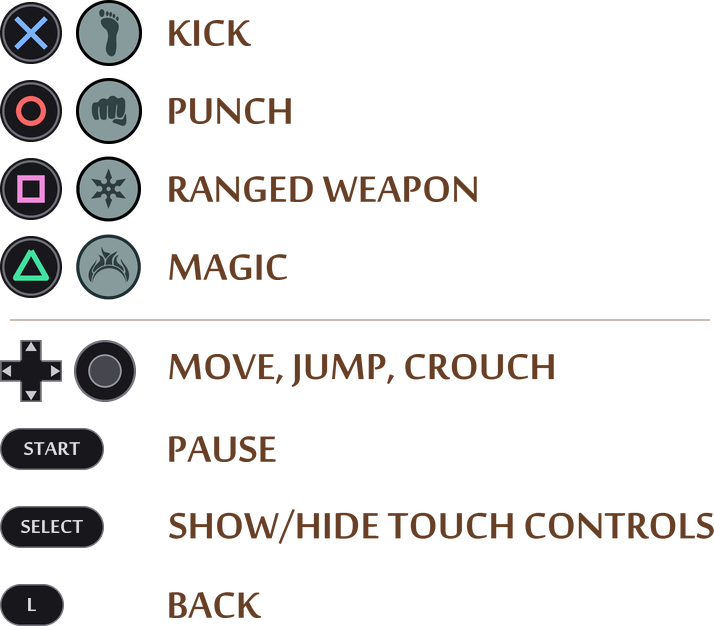
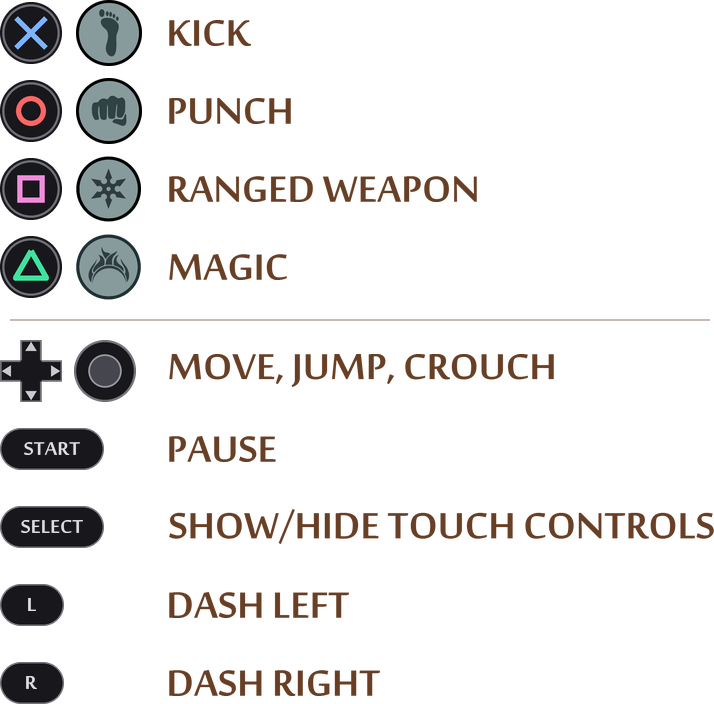
Dash with L and R; show the controls inside the pause dialog
L and R dash left and right: for four 70 ms phases the joystick is
taken over (let go, tap, let go, tap), the game's double tap, then
handed back, so a stick held that way keeps moving. L is no longer
Back. The controls picture and its art list them.

A second dialog over the pause dialog resumed the fight when it closed.
The pause dialog's CONTROLS icon now swaps its buttons for the picture
in place, and back, so only play resumes.

diff --git a/src/s3e/input.c b/src/s3e/input.c
@@ -10,7 +10,7 @@
  * The game's fight controls are on-screen only, so physical controls are
  * turned into virtual touches (ids from VPAD_ID) on those controls: the
  * left stick / d-pad drags the joystick, face buttons hold the attack
- * buttons. Positions are read from <data>/controls.txt, which is written
+ * buttons, L and R dash. Positions are read from <data>/controls.txt, which is written
  * with the defaults on first run so they can be tuned without a rebuild.
  */
 #include "s3e/s3e_internal.h"
@@ -27,7 +27,7 @@ typedef struct { int32_t key, pressed; } s3eKeyboardEvent;
 
 static struct { s3eCallback fn; void *ud; } s_ptr_cb[4], s_key_cb[2];
 static sf_input s_prev;
-static uint8_t s_keys[256];
+static uint8_t s_keys[256];   /* no Vita button is a key any more: all zero */
 
 static void fire(s3eCallback fn, void *ud, void *ev)
 {
@@ -43,12 +43,6 @@ static int find_touch(const sf_input *in, int id)
             return i;
     return -1;
 }
-
-/* Vita buttons -> s3eKey codes (s3eKeyboard.h): L is Back 210 (Android
- * back, closes dialogs). The others drive virtual touches instead. */
-static const struct { uint32_t btn; int key; } s_keymap[] = {
-    { SF_BTN_L, 210 },
-};
 
 /* --- virtual touches ------------------------------------------------------ */
 
@@ -70,6 +64,14 @@ static struct { const char *name; uint32_t btn; int x, y; } s_vbtn[V_NBUTTONS] =
     { "pause",  SF_BTN_START,    480,  40 },
 };
 static int s_joy_x = 137, s_joy_y = 405, s_joy_r = 65, s_deadzone = 40;
+
+/* L and R dash left and right. The game dashes on a double tap of the
+ * joystick, so for four phases the stick is taken over: let go, tap, let
+ * go, tap. Afterwards the stick is the player's again, so a stick still
+ * held that way keeps moving. */
+#define DASH_PHASE_US 70000
+static int s_dash_dir;          /* -1 left, 1 right, 0 none */
+static uint64_t s_dash_start;
 static int s_touch_controls;   /* draw the on-screen fight controls */
 static int s_cheats = 1;       /* cheats panel and unlimited energy (patches.c) */
 
@@ -205,6 +207,7 @@ static void add_virtual_touches(sf_input *in)
     /* Only in a fight: elsewhere the same screen points are menu buttons. */
     if (!sf_hud_in_fight()) {
         joy_down = 0;
+        s_dash_dir = 0;
         return;
     }
     if (dx * dx + dy * dy < s_deadzone * s_deadzone)
@@ -213,6 +216,19 @@ static void add_virtual_touches(sf_input *in)
     if (in->buttons & SF_BTN_RIGHT) dx = 127;
     if (in->buttons & SF_BTN_UP)    dy = -127;
     if (in->buttons & SF_BTN_DOWN)  dy = 127;
+    if (!s_dash_dir && (in->buttons & ~s_prev.buttons & (SF_BTN_L | SF_BTN_R))) {
+        s_dash_dir = (in->buttons & ~s_prev.buttons & SF_BTN_L) ? -1 : 1;
+        s_dash_start = sf_plat_time_us();
+    }
+    if (s_dash_dir) {
+        uint64_t phase = (sf_plat_time_us() - s_dash_start) / DASH_PHASE_US;
+        if (phase < 4) {
+            dx = (phase & 1) ? s_dash_dir * 127 : 0;
+            dy = 0;
+        } else {
+            s_dash_dir = 0;
+        }
+    }
     if (dx || dy) {
         if (joy_down)
             add_touch(in, VPAD_ID, s_joy_x + dx * s_joy_r / 127, s_joy_y + dy * s_joy_r / 127);
@@ -271,18 +287,6 @@ void sf_input_poll(void)
         }
     }
 
-    for (i = 0; i < (int)(sizeof(s_keymap) / sizeof(s_keymap[0])); i++) {
-        int now = (in.buttons & s_keymap[i].btn) != 0;
-        int was = (s_prev.buttons & s_keymap[i].btn) != 0;
-        int key = s_keymap[i].key;
-        if (now != was) {
-            s3eKeyboardEvent ev = { key, now };
-            s_keys[key] = now ? 3 : 4;   /* S3E_KEY_STATE_PRESSED|DOWN / RELEASED */
-            fire(s_key_cb[0].fn, s_key_cb[0].ud, &ev);
-        } else {
-            s_keys[key] = now ? 1 : 0;   /* S3E_KEY_STATE_DOWN / UP */
-        }
-    }
     s_prev = in;
 }
 

diff --git a/src/s3e/ui.c b/src/s3e/ui.c
@@ -61,7 +61,7 @@ const uint8_t *sf_ui_asset(const char *path, uint32_t *size)
 
 /* --- the help dialog --------------------------------------------------------- */
 
-#define HELP_LINES  8        /* blank message lines: the dialog's height */
+#define HELP_LINES  9        /* blank message lines: the dialog's height */
 #define HELP_SCALE  0.6f     /* controls_help.png in the dialog */
 
 void sf_ui_show_controls(void)
@@ -121,10 +121,38 @@ typedef void (*set_press_scale_fn)(void *btn, uint32_t scale);                  
 
 #define PAUSE_X   0.0f
 #define PAUSE_Y   (-260.0f)
+/* The picture replaces the button row, between the title and our icon. */
+#define PAUSE_PIC_Y     (-55.0f)
+#define PAUSE_PIC_SCALE 0.37f
 
+/* The pause dialog's own buttons: home, play, music, sound. */
+static const uint16_t s_pause_buttons[] = { 0x1cc, 0x1d0, 0x1d4, 0x1d8 };
+static void *s_pause_pic;   /* the open pause dialog's picture, or NULL */
+
+/* Our icon toggles the picture in place of the buttons. A second dialog
+ * on top would do, but closing it resumes the fight under the pause
+ * dialog; this way only play resumes it. */
 static void pause_click(void *dlg, int *event)
 {
-    sf_ui_show_controls();
+    void *body = *(void **)((uint8_t *)dlg + 0x174);
+    int show_pic;
+    size_t i;
+
+    if (!s_pause_pic) {
+        if (!(s_pause_pic = sf_game_sprite(ASSET_DIR "controls_help.png")))
+            return;
+        ((setf_fn)VT(s_pause_pic, NODE_SET_SCALE))(s_pause_pic, PAUSE_PIC_SCALE);
+        ((setxy_fn)VT(s_pause_pic, NODE_SET_POS))(s_pause_pic, 0.0f, PAUSE_PIC_Y);
+        ((setb_fn)VT(s_pause_pic, NODE_SET_VISIBLE))(s_pause_pic, 0);
+        ((add_child_fn)VT(body, NODE_ADD_CHILD))(body, s_pause_pic);
+    }
+    show_pic = !((int (*)(void *))VT(s_pause_pic, NODE_IS_VISIBLE))(s_pause_pic);
+    ((setb_fn)VT(s_pause_pic, NODE_SET_VISIBLE))(s_pause_pic, show_pic);
+    for (i = 0; i < sizeof(s_pause_buttons) / sizeof(s_pause_buttons[0]); i++) {
+        void *b = *(void **)((uint8_t *)dlg + s_pause_buttons[i]);
+        if (b)
+            ((setb_fn)VT(b, NODE_SET_VISIBLE))(b, !show_pic);
+    }
 }
 
 /* Slot 0x26c: the original buttons, then ours, built as 0x4a38fd9c builds
@@ -135,12 +163,13 @@ static void pause_build(uint8_t *dlg)
     void *btn, *body = *(void **)(dlg + 0x174);
     int z = *(int32_t *)G(0x4a8f3fb0) - 1;
 
+    s_pause_pic = NULL;   /* the last dialog's went with it */
     ((obj_fn)G(0x4a390c60))(dlg);
     btn = ((void *(*)(uint32_t))G(0x4a78ac9c))(0x1b8);
     ((image_button_fn)G(0x4a161010))(btn, ASSET_DIR "pause_controls.png", ASSET_DIR "pause_selected.png",
                                      4, z, sf_f32(255.0f), sf_f32(255.0f), NULL, 1);
     ((set_name_fn)VT(btn, 0x284))(btn, ASSET_DIR "pause_controls.png");
-    sf_game_retain(btn);
+    sf_game_autorelease(btn);
     ((set_press_scale_fn)G(0x4a1607dc))(btn, sf_f32(1.3f));
     ((add_child_fn)VT(body, NODE_ADD_CHILD))(body, btn);
     if (((int (*)(void))G(0x4a196cbc))())

diff --git a/scripts/make_ui_art.py b/scripts/make_ui_art.py
@@ -215,7 +215,8 @@ def controls_help():
         ([dpad_glyph(glyph), stick_glyph(glyph)], None, "MOVE, JUMP, CROUCH"),
         ([pill_glyph("START", 42, pills_w)], None, "PAUSE"),
         ([pill_glyph("SELECT", 42, pills_w)], None, "SHOW/HIDE TOUCH CONTROLS"),
-        ([pill_glyph("L", 42, 64)], None, "BACK"),
+        ([pill_glyph("L", 42, 64)], None, "DASH LEFT"),
+        ([pill_glyph("R", 42, 64)], None, "DASH RIGHT"),
     ]
     keys_w = max(glyph * 2 + 12, pills_w, glyph + 14 + icon) + 22
     labels = [text(r[2], label_px, INK, shadow=False) if r else None for r in rows]
